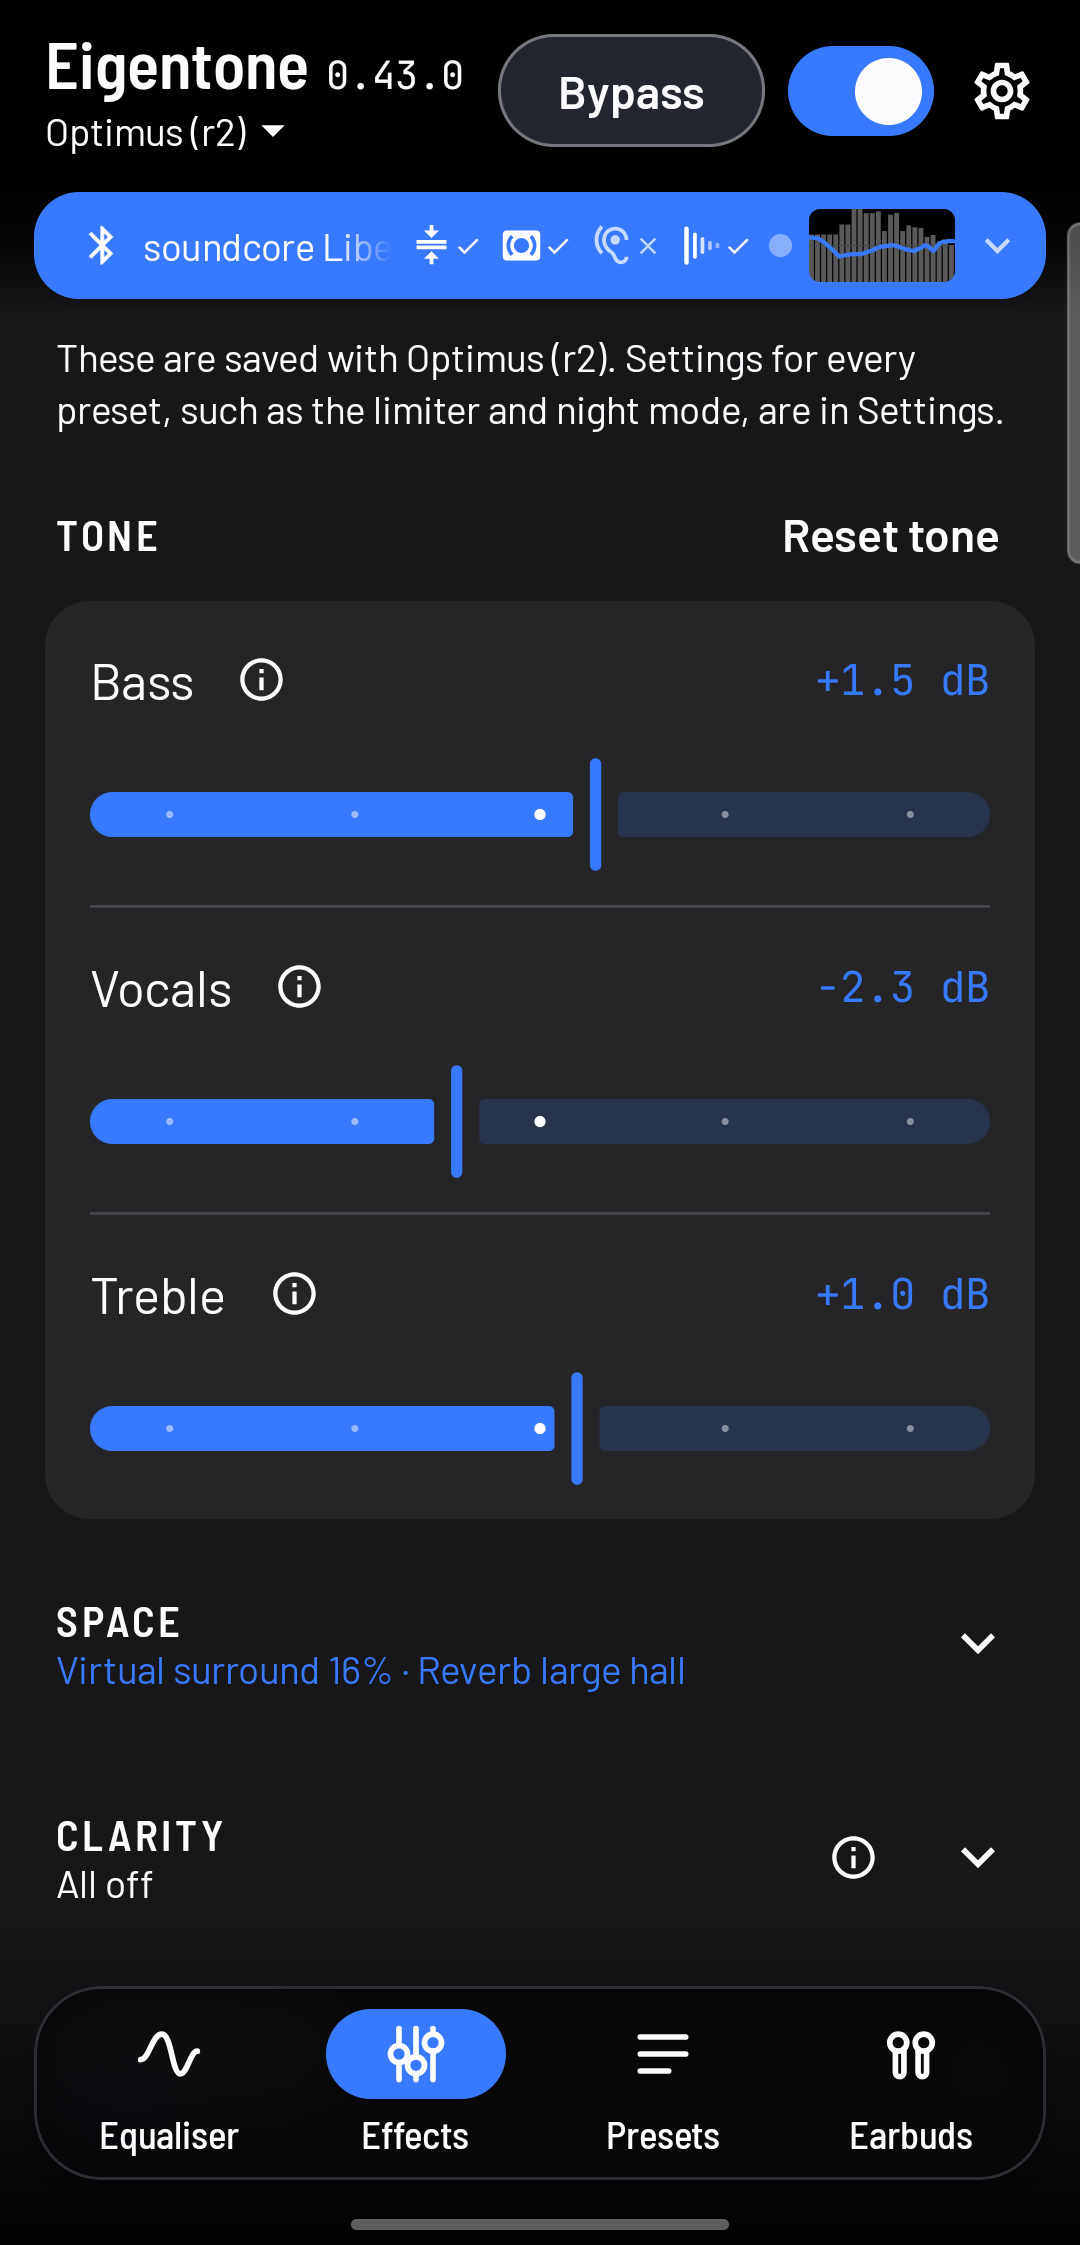
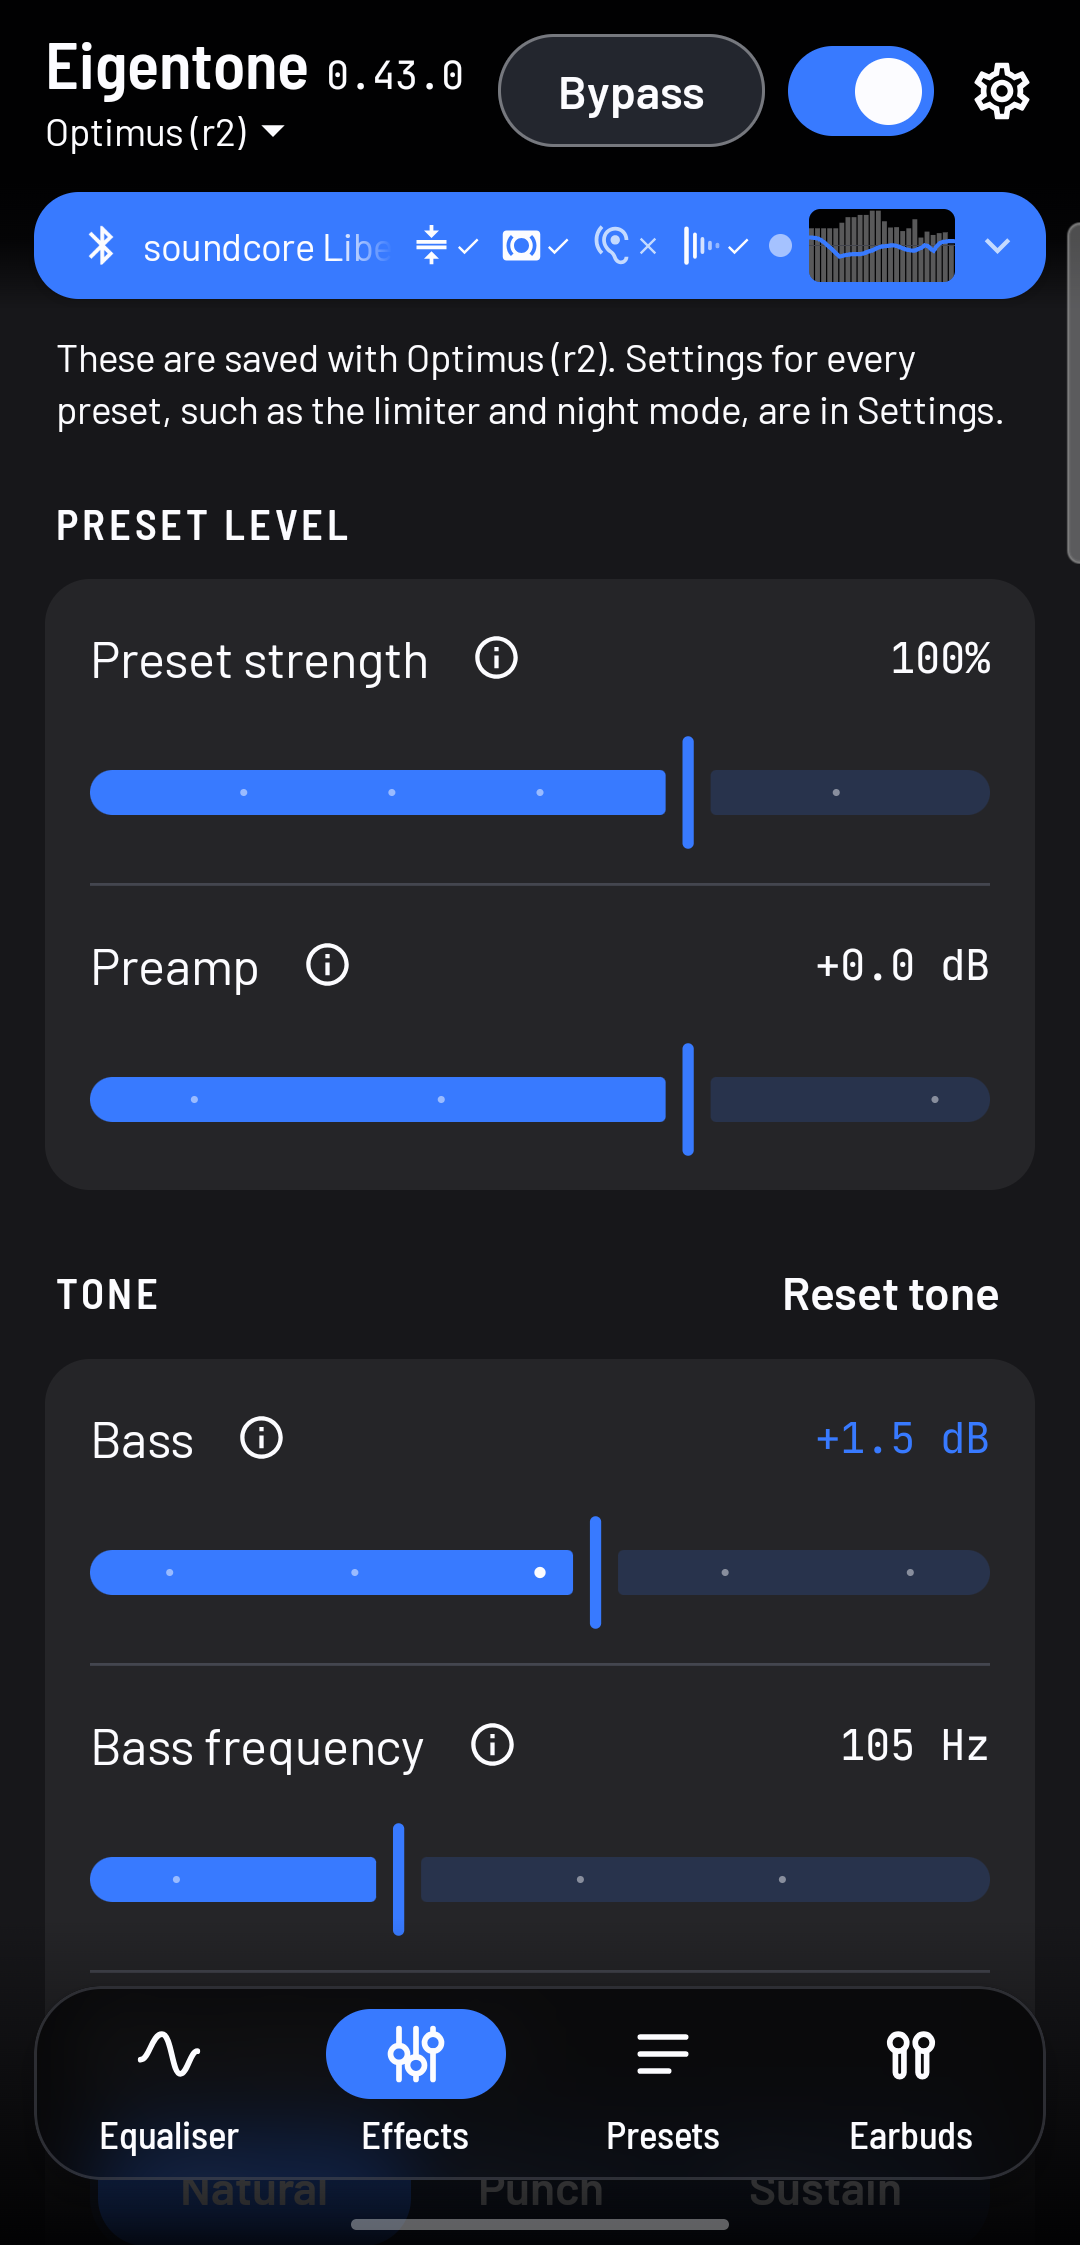
Retake the Effects screenshot with Advanced controls on

diff --git a/README.md b/README.md
@@ -25,7 +25,7 @@
 
 <p align="center">
   <img src="fastlane/metadata/android/en-US/images/phoneScreenshots/01-equaliser-0.43.png" width="19%" alt="Equaliser tab: the EQ curve over the live spectrum, and the graphic EQ faders with their dB scale">
-  <img src="fastlane/metadata/android/en-US/images/phoneScreenshots/02-effects-0.43.png" width="19%" alt="Effects tab: bass, vocals and treble, with Space and Clarity folded below">
+  <img src="fastlane/metadata/android/en-US/images/phoneScreenshots/02-effects-0.43.png" width="19%" alt="Effects tab: preset strength, preamp and tone controls">
   <img src="fastlane/metadata/android/en-US/images/phoneScreenshots/03-presets-0.43.png" width="19%" alt="Presets tab: search, and your presets with favourites starred">
   <img src="fastlane/metadata/android/en-US/images/phoneScreenshots/04-headphones-0.43.png" width="19%" alt="Earbuds tab, named after what is connected: headphone correction and the preset that loads automatically">
   <img src="fastlane/metadata/android/en-US/images/phoneScreenshots/05-settings-0.43.png" width="19%" alt="Settings: volume, level, stereo, theme, the colour picker and Advanced controls">

diff --git a/docs/FEATURES.md b/docs/FEATURES.md
@@ -11,7 +11,7 @@ Everything Eigentone does, grouped by what you'd use it for.
 
 <p align="center">
   <img src="../fastlane/metadata/android/en-US/images/phoneScreenshots/01-equaliser-0.43.png" width="30%" alt="Equaliser tab: the EQ curve over the live spectrum, and the graphic EQ faders">
-  <img src="../fastlane/metadata/android/en-US/images/phoneScreenshots/02-effects-0.43.png" width="30%" alt="Effects tab: bass, vocals and treble, with Space and Clarity folded below">
+  <img src="../fastlane/metadata/android/en-US/images/phoneScreenshots/02-effects-0.43.png" width="30%" alt="Effects tab: preset strength, preamp and tone controls">
   <img src="../fastlane/metadata/android/en-US/images/phoneScreenshots/04-headphones-0.43.png" width="30%" alt="Earbuds tab: headphone correction and the preset that loads automatically">
 </p>
 
